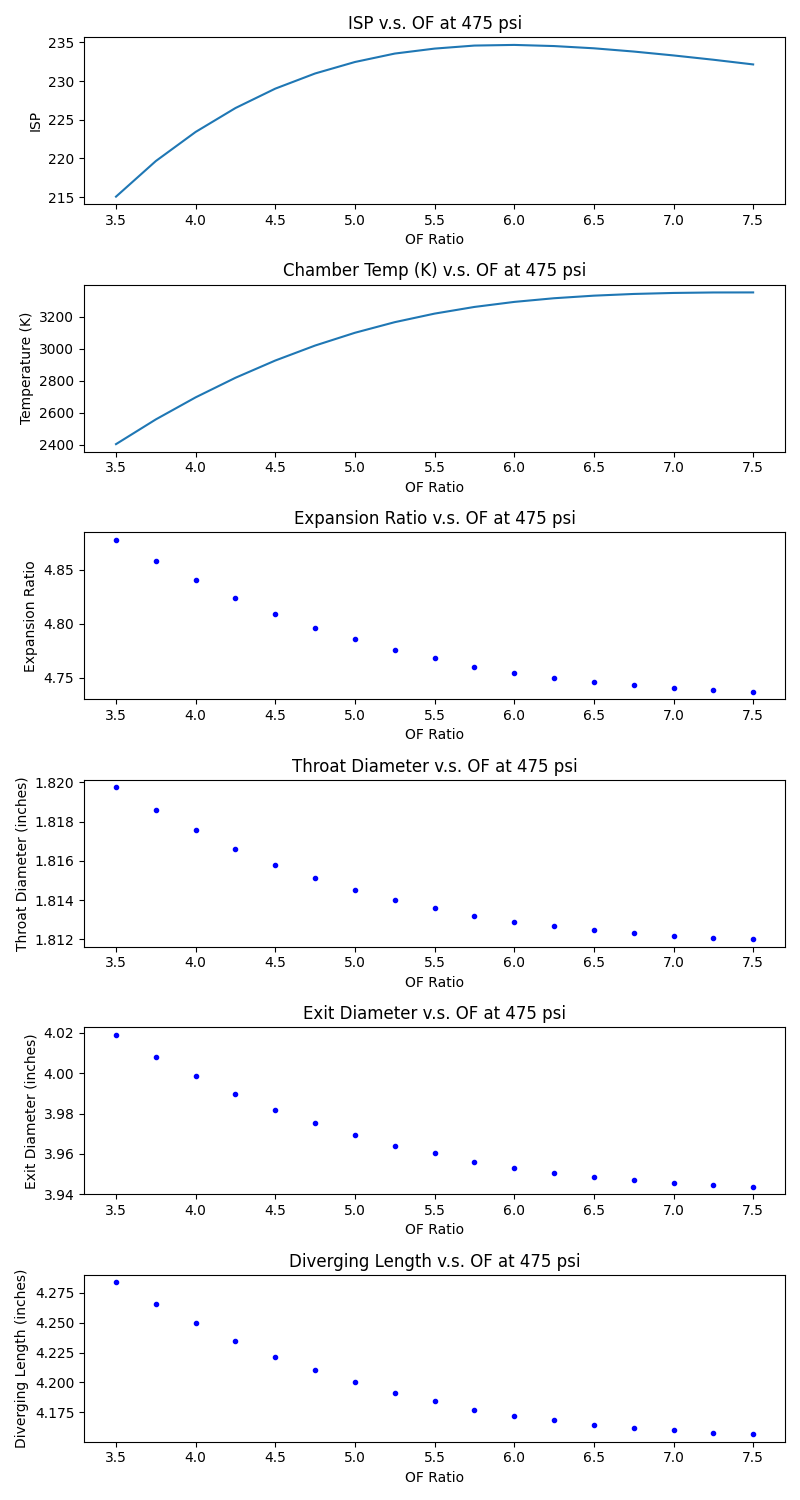
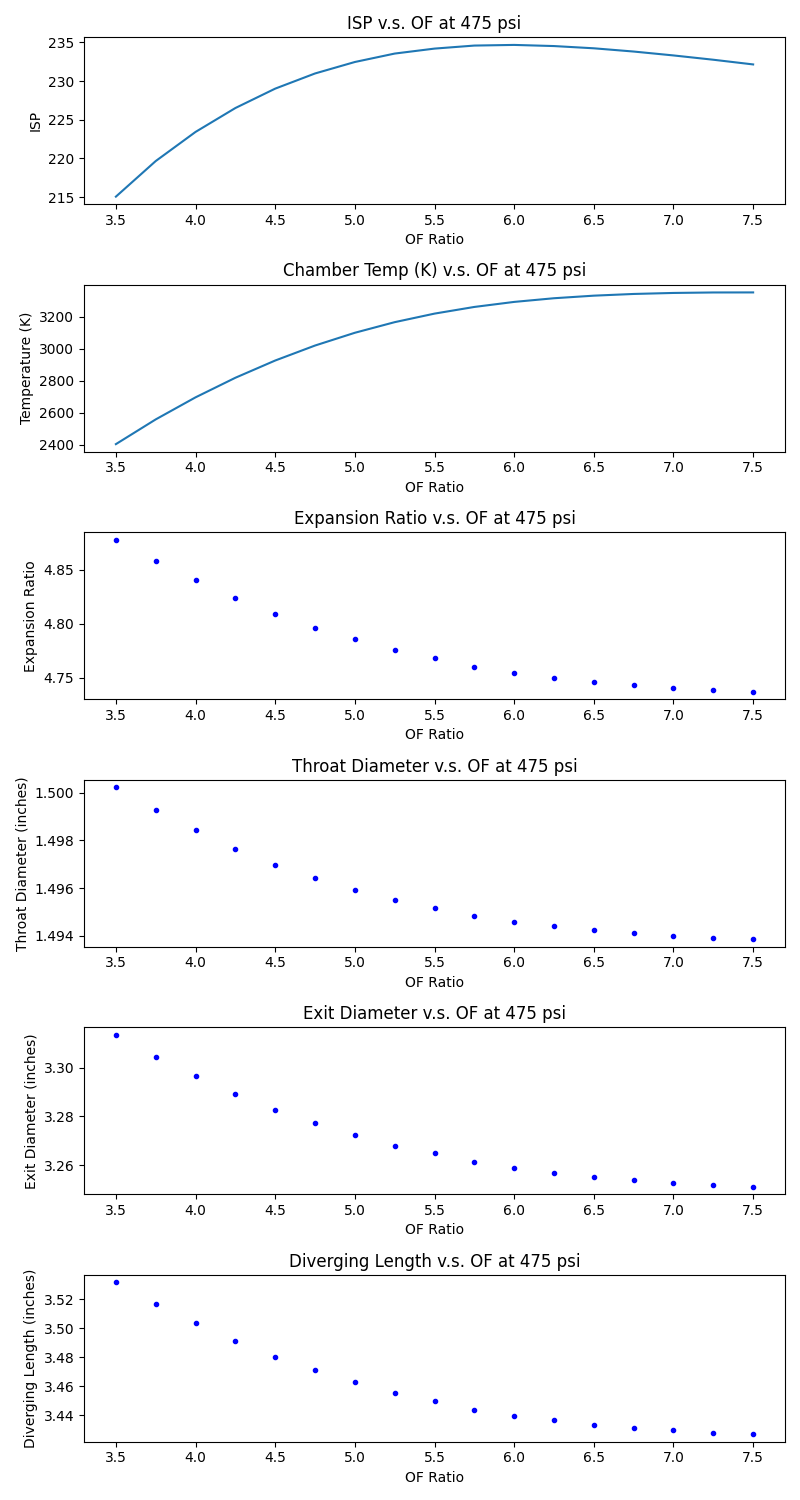
corrected burn time in graphs.py

diff --git a/graphs.py b/graphs.py
@@ -6,13 +6,11 @@ variety of OF ratios and a variety of chamber pressures.
 import pandas as pd
 import numpy as np
 import matplotlib.pyplot as plt
-from calculations import getOptimumExpansionRatio, getMassFlow, getExhaustVelocity, getThroatDiameter, getExitDiameter, getDivergingLength
+from calculations import getOptimumExpansionRatio, getMassFlow, getExhaustVelocity, getThroatDiameter, getExitDiameter, getDivergingLength, getBurnTime
 
 impulse = 40960 #in N, harcoded constant
-burn_time = 5.1 #in s, hardcoded constant
+burn_time = getBurnTime() #in s, hardcoded constant
 thrust_avg = impulse / burn_time
-
-
 
 
 def getData(paths, pressure):

diff --git a/burn_time_investigation.py b/burn_time_investigation.py
@@ -7,7 +7,7 @@ import pandas as pd
 import matplotlib.pyplot as plt
 from calculations import getDivergingLength, getExhaustVelocity, getExitDiameter, getMassFlow, getOptimumExpansionRatio, getThroatDiameter
 
-t = 5.1 #initial burn time
+t = 5.1 #initial burn time guesstimate
 time = np.linspace(t,9,50)
 impulse = 40960 # in Ns
 pressure = 450 #in psi, fix this

diff --git a/calculations.py b/calculations.py
@@ -86,4 +86,3 @@ def getDivergingLength(throat_diameter, exp_ratio, half_angle = 15, conical = Fa
     elif bell:
         return L_n * bell_fraction
 
-print(getBurnTime())
